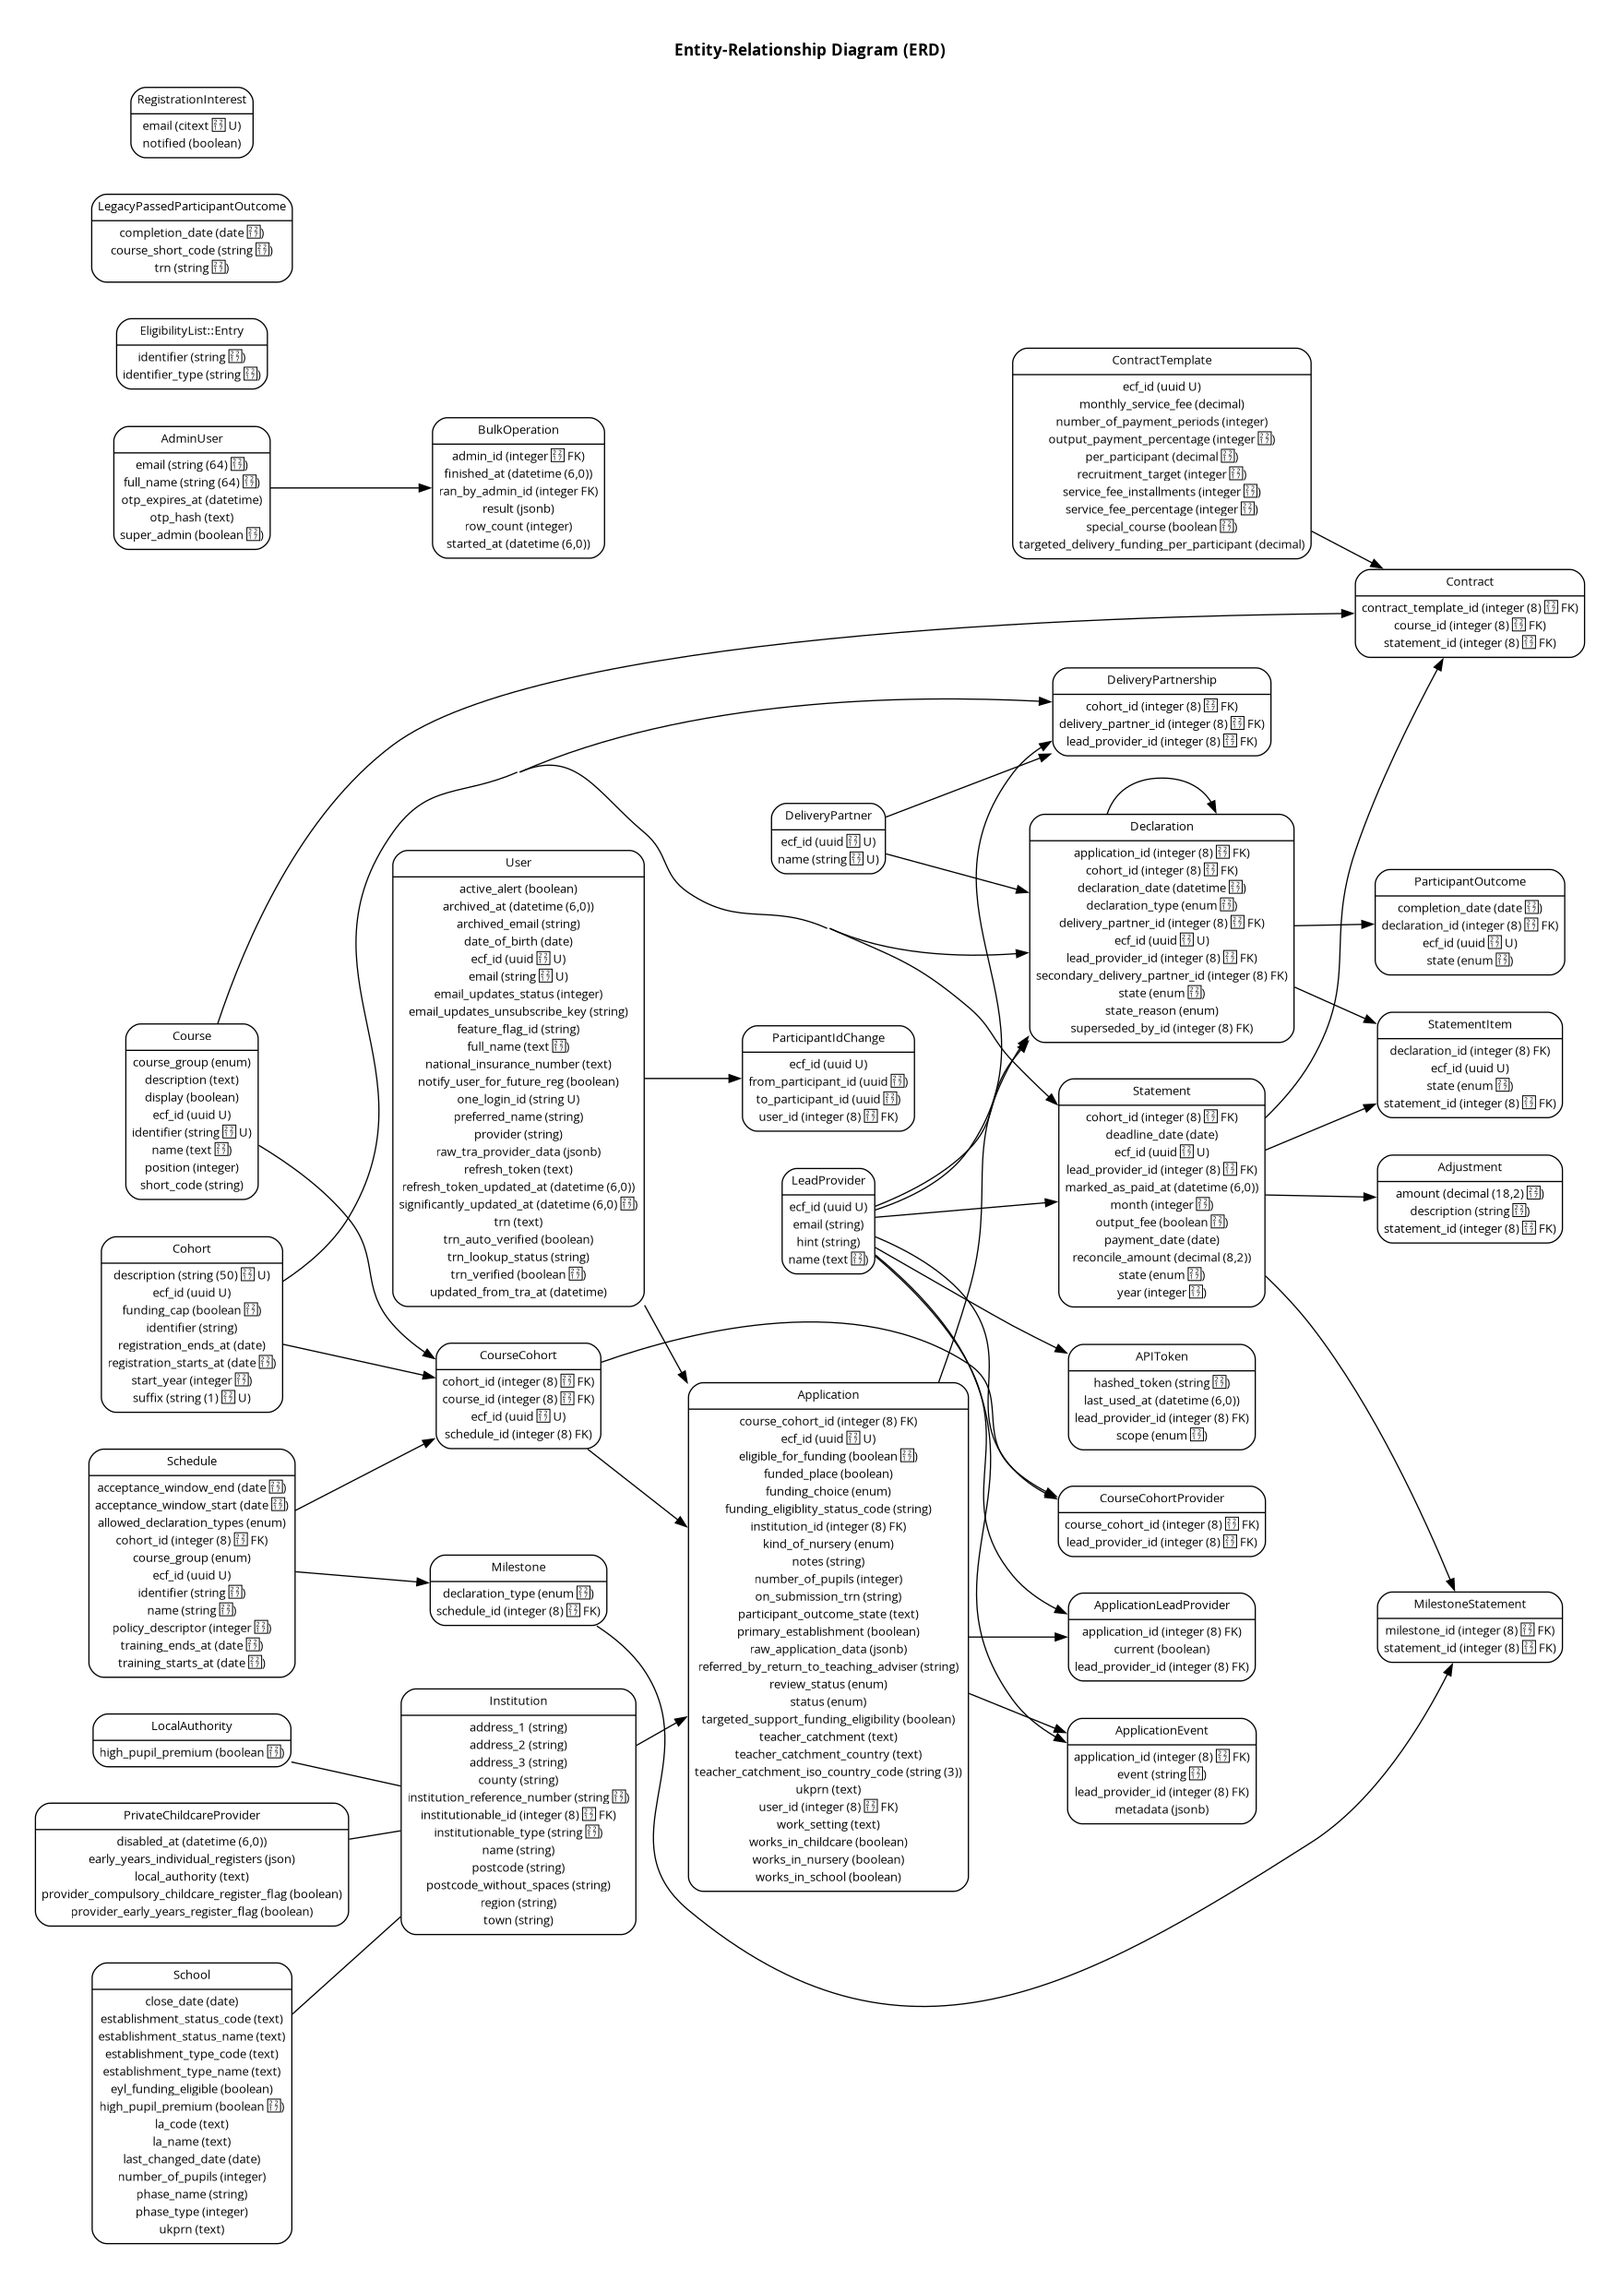
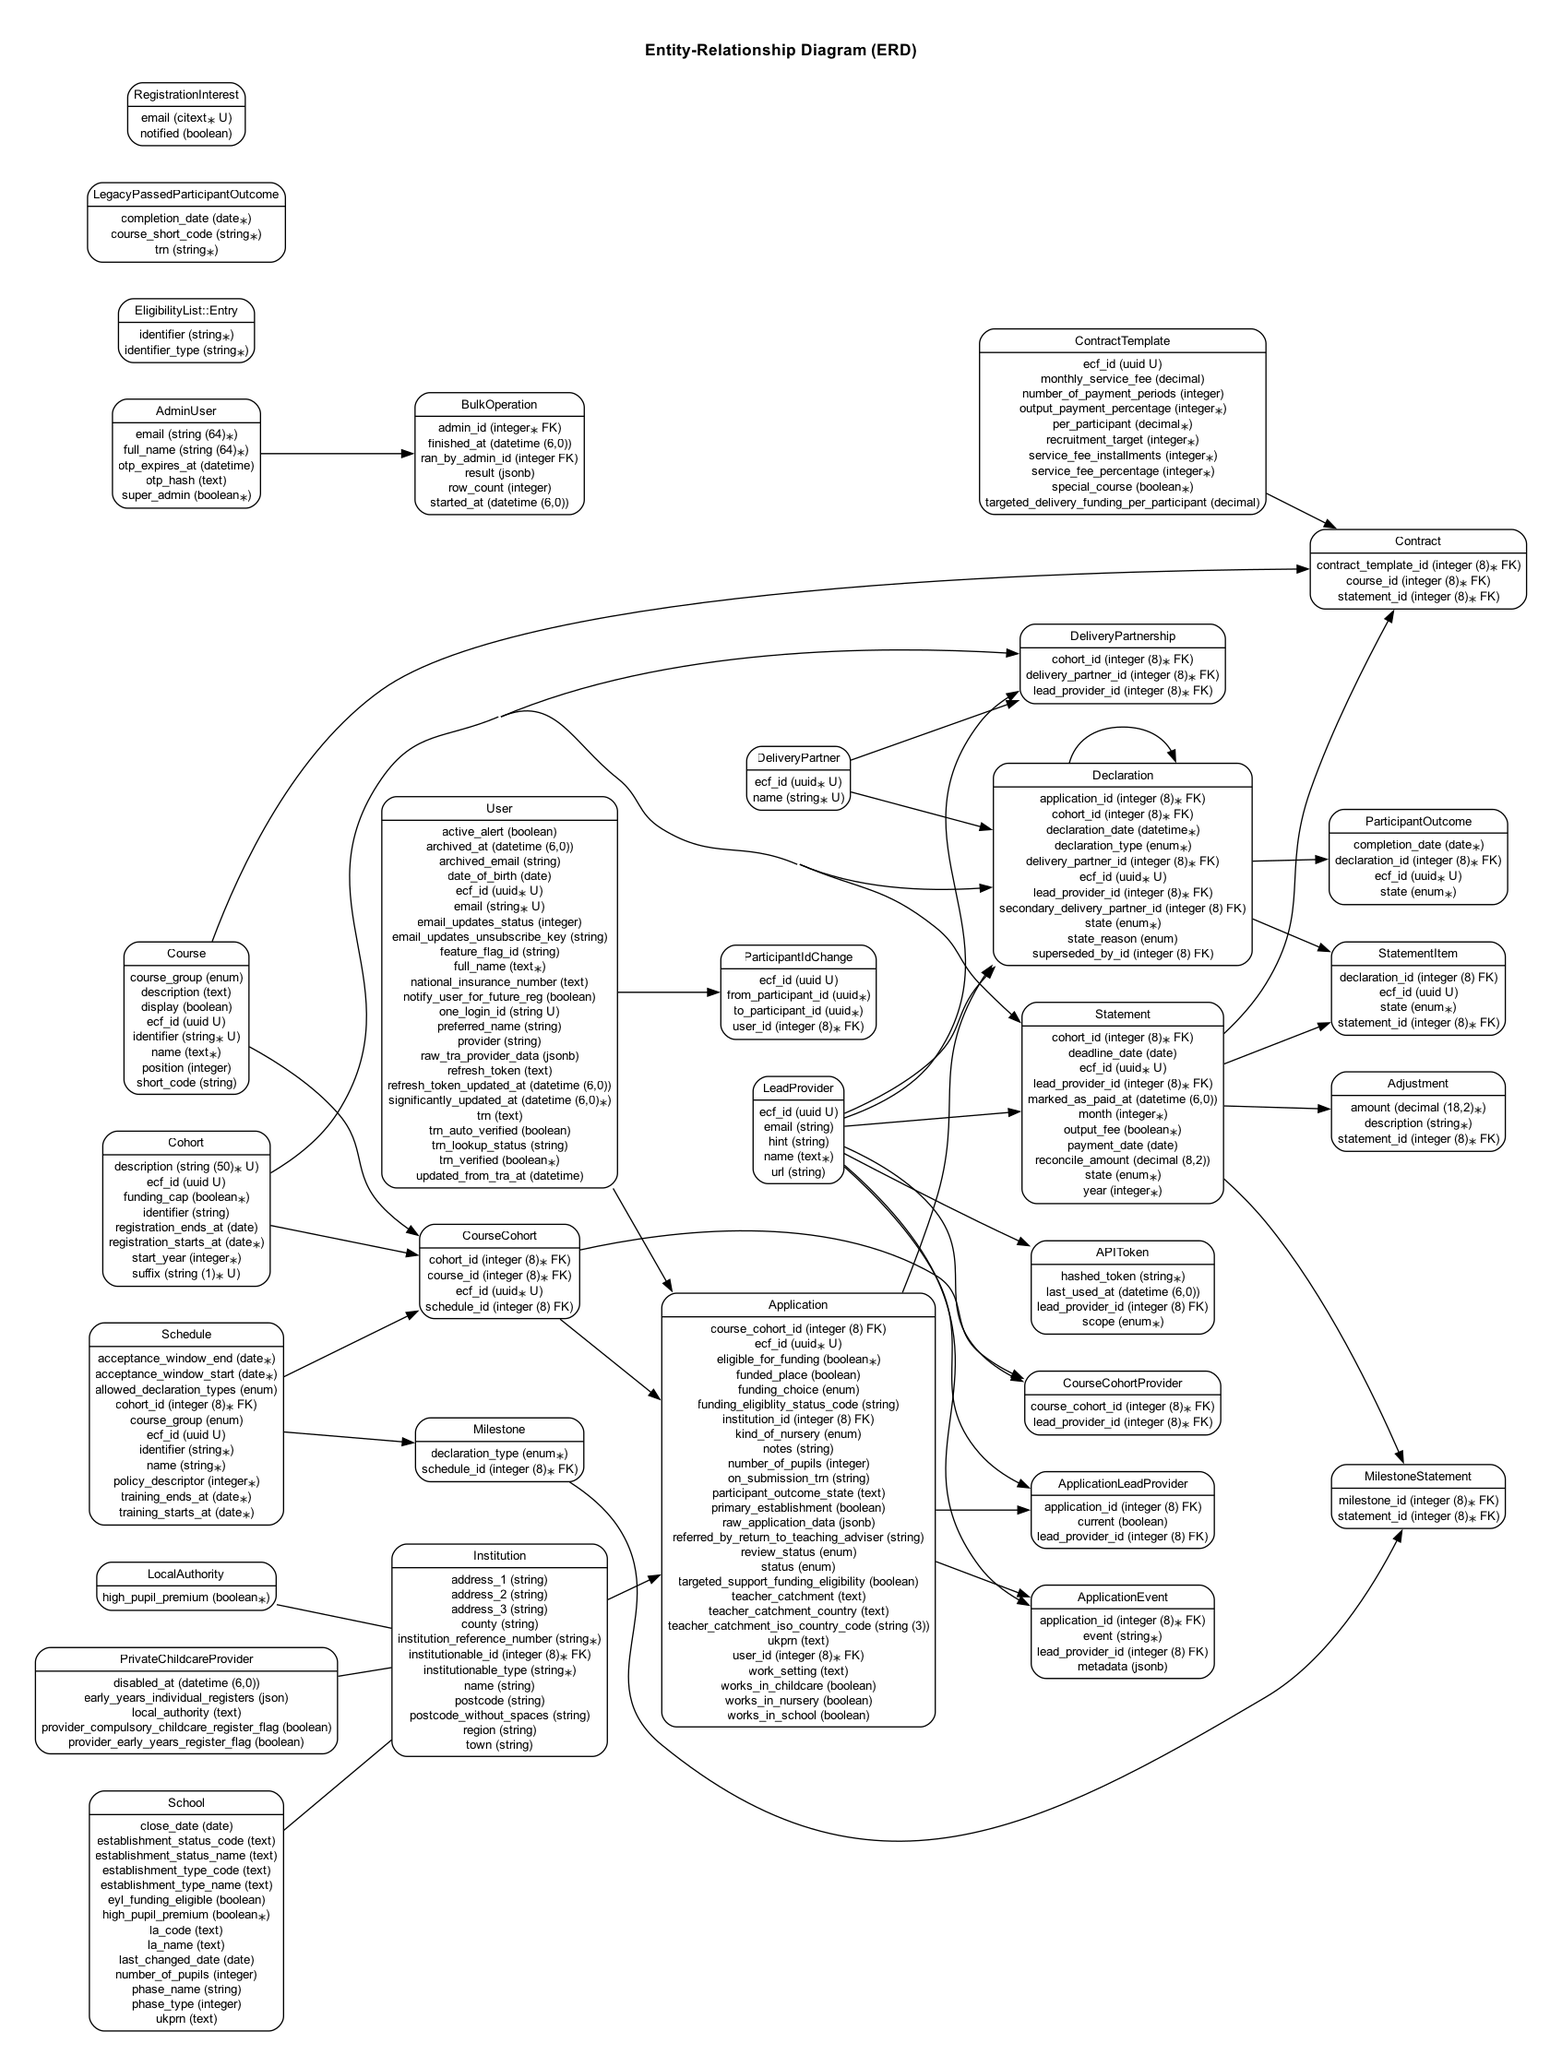
Add lead_provider config for agreed LP names/urls

diff --git a/db/seeds/base/constants.rb b/db/seeds/base/constants.rb
@@ -1,11 +1,32 @@
-LEAD_PROVIDER_TOKENS = {
-  "Ambition Institute" => "ambition-token",
-  "Best Practice Network" => "best-practice-token",
-  "Church of England" => "coe-token",
-  "UCL Institute of Education" => "ucl-token",
-  "Teach First" => "teach-first-token",
-  "National Institute of Teaching" => "niot-token",
-  "LLSE" => "llse-token",
+LEAD_PROVIDER_CONFIG = {
+  "Ambition Institute" => {
+    token: "ambition-token",
+    url: "https://www.ambition.org.uk/",
+    hint: "Ambition Institute is a graduate school with programmes designed to support educators throughout the education sector, including teachers, leaders, and executive leaders.",
+  },
+  "Best Practice Network" => {
+    token: "best-practice-token",
+    url: "https://www.bestpracticenet.co.uk/",
+    hint: "We share the desire of every practitioner that every child, regardless of their background, should benefit from an excellent education.",
+  },
+  "Church of England" => {
+    token: "coe-token",
+    url: "https://www.nse.org.uk/",
+    hint: "TBD",
+  },
+  "University College London (UCL) Institute of Education" => {
+    token: "ucl-token",
+    url: "https://www.ucl.ac.uk/ioe/courses/professional-development-teachers/",
+    hint: "We work across education, culture, psychology and social science to create lasting and evolving change.",
+  },
+  "National Institute of Teaching" => {
+    token: "niot-token",
+    url: "https://niot.org.uk/",
+    hint: "We research and run professional development for teachers and school leaders for the benefit of pupils across England. #traintoteach",
+  },
+  "LLSE" => {
+    token: "llse-token",
+    url: "https://www.llse.org.uk/",
+    hint: "An Outstanding Lead Provider of National Professional Qualifications (NPQs) for School Leadership",
+  },
 }.freeze
-
-LEAD_PROVIDERS = LEAD_PROVIDER_TOKENS.keys.freeze

diff --git a/db/schema.rb b/db/schema.rb
@@ -10,7 +10,7 @@
 #
 # It's strongly recommended that you check this file into your version control system.
 
-ActiveRecord::Schema[8.1].define(version: 2026_05_13_120000) do
+ActiveRecord::Schema[8.1].define(version: 2026_05_18_105533) do
   # These are extensions that must be enabled in order to support this database
   enable_extension "btree_gin"
   enable_extension "citext"
@@ -379,6 +379,7 @@ ActiveRecord::Schema[8.1].define(version: 2026_05_13_120000) do
     t.string "hint"
     t.text "name", null: false
     t.datetime "updated_at", null: false
+    t.string "url"
     t.index ["ecf_id"], name: "index_lead_providers_on_ecf_id", unique: true
   end
 

diff --git a/db/seeds/base/add_lead_providers.rb b/db/seeds/base/add_lead_providers.rb
@@ -1,5 +1,7 @@
 require_relative "constants"
 
-LEAD_PROVIDERS.each do |name|
-  LeadProvider.find_by(name:) || FactoryBot.create(:lead_provider, name:)
+LEAD_PROVIDER_CONFIG.each do |name, config|
+  lead_provider = LeadProvider.find_or_initialize_by(name:)
+  lead_provider.assign_attributes(config.slice(:url, :hint))
+  lead_provider.save! if lead_provider.changed?
 end

diff --git a/spec/services/api_tests/change_delivery_partner_spec.rb b/spec/services/api_tests/change_delivery_partner_spec.rb
@@ -36,7 +36,7 @@ RSpec.describe APITests::ChangeDeliveryPartner, type: :model do
   end
 
   before do
-    stub_const("LEAD_PROVIDER_TOKENS", lead_provider.name => "test-token") if lead_provider
+    stub_const("LEAD_PROVIDER_CONFIG", lead_provider.name => { token: "test-token" }) if lead_provider
     allow(HTTParty).to receive(:put).and_return(api_response)
   end
 

diff --git a/spec/services/api_tests/completed_declaration_spec.rb b/spec/services/api_tests/completed_declaration_spec.rb
@@ -29,7 +29,7 @@ RSpec.describe APITests::CompletedDeclaration, type: :model do
   end
 
   before do
-    stub_const("LEAD_PROVIDER_TOKENS", lead_provider.name => "test-token") if lead_provider
+    stub_const("LEAD_PROVIDER_CONFIG", lead_provider.name => { token: "test-token" }) if lead_provider
     allow(HTTParty).to receive(:post).and_return(api_response)
   end
 

diff --git a/spec/services/api_tests/started_declaration_spec.rb b/spec/services/api_tests/started_declaration_spec.rb
@@ -30,7 +30,7 @@ RSpec.describe APITests::StartedDeclaration, type: :model do
   end
 
   before do
-    stub_const("LEAD_PROVIDER_TOKENS", lead_provider.name => "test-token") if lead_provider
+    stub_const("LEAD_PROVIDER_CONFIG", lead_provider.name => { token: "test-token" }) if lead_provider
     allow(HTTParty).to receive(:post).and_return(api_response)
   end
 

diff --git a/spec/services/api_tests/withdraw_application_spec.rb b/spec/services/api_tests/withdraw_application_spec.rb
@@ -23,7 +23,7 @@ RSpec.describe APITests::WithdrawApplication, type: :model do
   end
 
   before do
-    stub_const("LEAD_PROVIDER_TOKENS", lead_provider.name => "test-token") if lead_provider
+    stub_const("LEAD_PROVIDER_CONFIG", lead_provider.name => { token: "test-token" }) if lead_provider
     allow(HTTParty).to receive(:put).and_return(api_response)
   end
 

diff --git a/spec/services/api_tests/accept_application_spec.rb b/spec/services/api_tests/accept_application_spec.rb
@@ -23,7 +23,7 @@ RSpec.describe APITests::AcceptApplication, type: :model do
   end
 
   before do
-    stub_const("LEAD_PROVIDER_TOKENS", lead_provider.name => "test-token") if lead_provider
+    stub_const("LEAD_PROVIDER_CONFIG", lead_provider.name => { token: "test-token" }) if lead_provider
     allow(HTTParty).to receive(:put).and_return(api_response)
   end
 

diff --git a/spec/services/api_tests/change_funded_place_spec.rb b/spec/services/api_tests/change_funded_place_spec.rb
@@ -23,7 +23,7 @@ RSpec.describe APITests::ChangeFundedPlace, type: :model do
   end
 
   before do
-    stub_const("LEAD_PROVIDER_TOKENS", lead_provider.name => "test-token") if lead_provider
+    stub_const("LEAD_PROVIDER_CONFIG", lead_provider.name => { token: "test-token" }) if lead_provider
     allow(HTTParty).to receive(:put).and_return(api_response)
   end
 

diff --git a/spec/services/api_tests/reject_application_spec.rb b/spec/services/api_tests/reject_application_spec.rb
@@ -23,7 +23,7 @@ RSpec.describe APITests::RejectApplication, type: :model do
   end
 
   before do
-    stub_const("LEAD_PROVIDER_TOKENS", lead_provider.name => "test-token") if lead_provider
+    stub_const("LEAD_PROVIDER_CONFIG", lead_provider.name => { token: "test-token" }) if lead_provider
     allow(HTTParty).to receive(:put).and_return(api_response)
   end
 

diff --git a/spec/services/api_tests/resume_application_spec.rb b/spec/services/api_tests/resume_application_spec.rb
@@ -25,7 +25,7 @@ RSpec.describe APITests::ResumeApplication, type: :model do
   end
 
   before do
-    stub_const("LEAD_PROVIDER_TOKENS", lead_provider.name => "test-token") if lead_provider
+    stub_const("LEAD_PROVIDER_CONFIG", lead_provider.name => { token: "test-token" }) if lead_provider
     allow(HTTParty).to receive(:put).and_return(api_response)
   end
 

diff --git a/spec/services/api_tests/defer_application_spec.rb b/spec/services/api_tests/defer_application_spec.rb
@@ -23,7 +23,7 @@ RSpec.describe APITests::DeferApplication, type: :model do
   end
 
   before do
-    stub_const("LEAD_PROVIDER_TOKENS", lead_provider.name => "test-token") if lead_provider
+    stub_const("LEAD_PROVIDER_CONFIG", lead_provider.name => { token: "test-token" }) if lead_provider
     allow(HTTParty).to receive(:put).and_return(api_response)
   end
 
